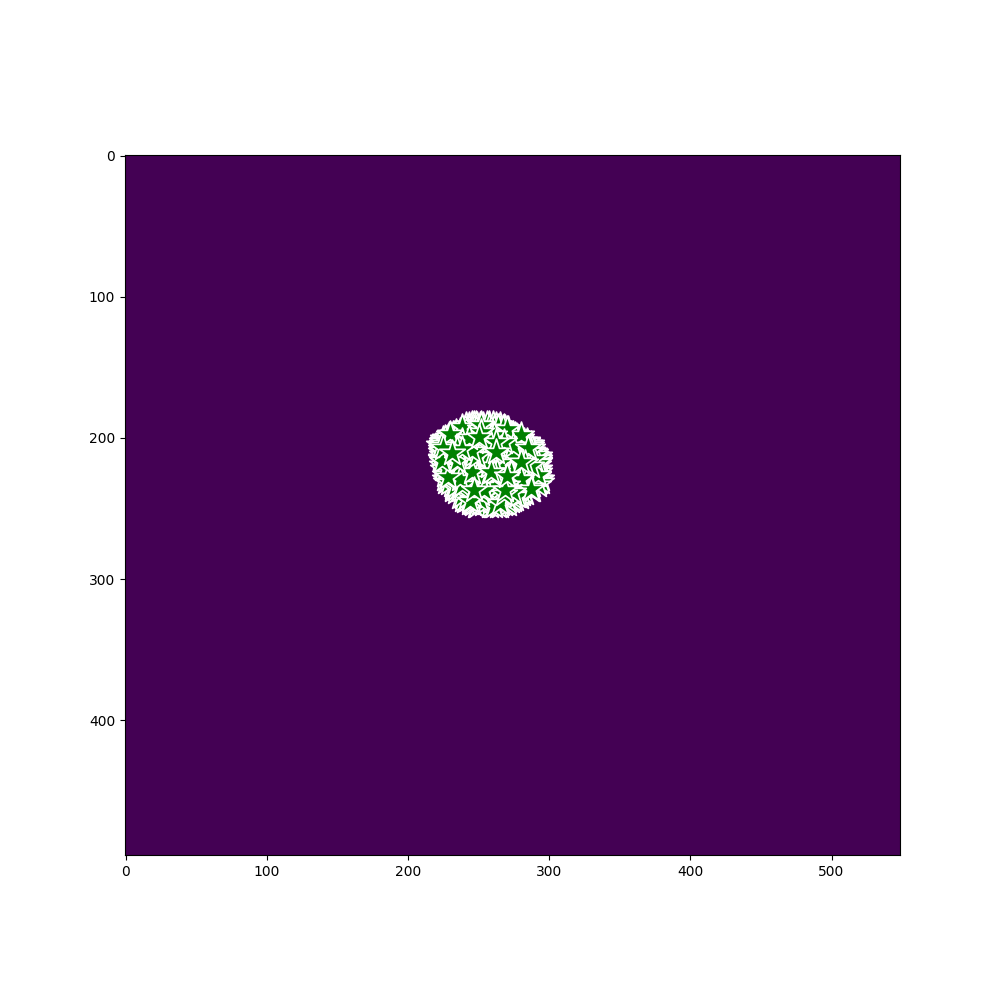
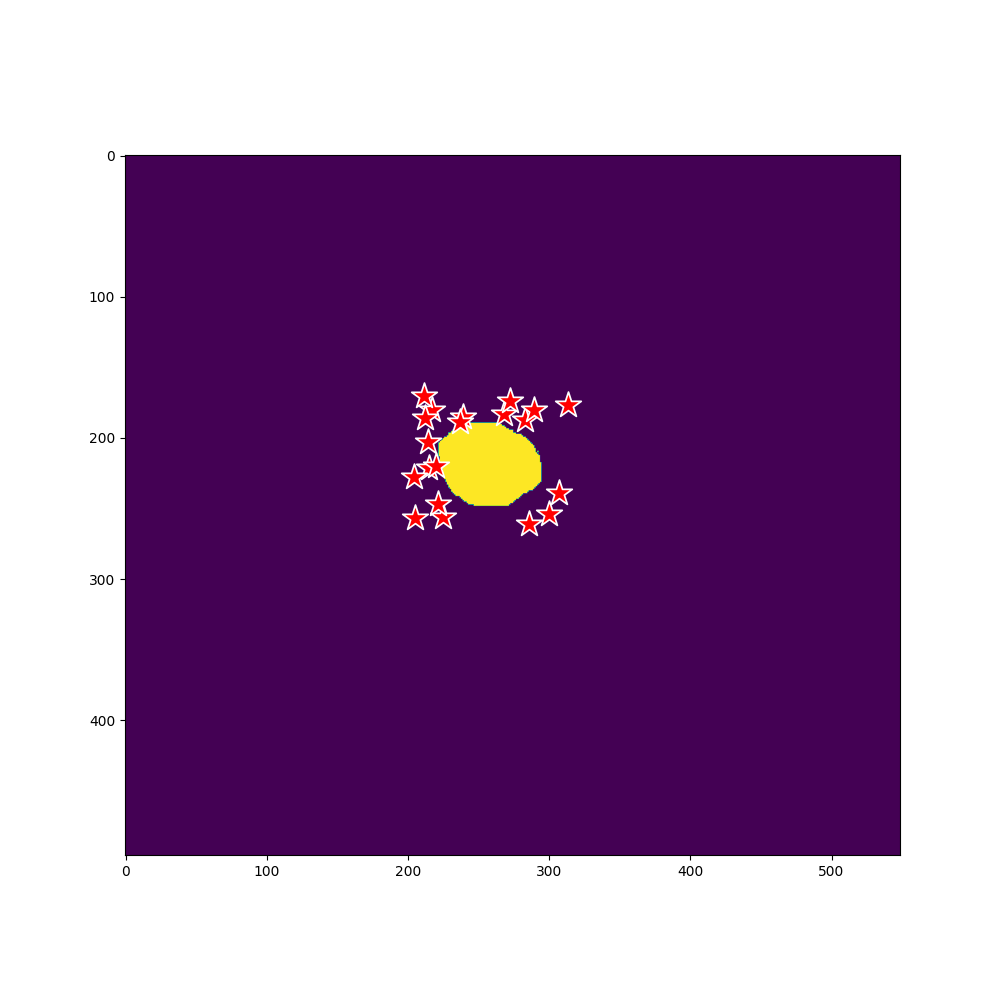
bg_point complete

Changed region(s): [[0.403, 0.372, 0.589, 0.527]]

diff --git a/inference.py b/inference.py
@@ -26,6 +26,7 @@ def segment_data(data, exp_config):
     data_dataloader = DataLoader(dataset, batch_size=1, shuffle=False)
 
     dice_coefs, IoU_scores = [], []
+    low_accuracy_imgs, high_accuracy_imgs = 0, 0
     for i, batch in tqdm(enumerate(data_dataloader)):
 
 
@@ -43,25 +44,34 @@ def segment_data(data, exp_config):
         pred_mask = batched_output[0]['masks'][0].squeeze().numpy()
     
 
-        # randomly pick few images to qualitatively check the model performance
-        # the images are saved in sample_images folder
-        if random.randint(1, 100) == -1:
-            # side_by_side(img_path, label_path, img_num)
-            # print(f'{batch["point_labels"].numpy()[0]=}')
-            input_points = batch["original_coords"].numpy()[0]
-            input_labels = batch["point_labels"].numpy()[0]
-            show_points_on_image(io.imread(img_path), input_points, input_labels=input_labels)
-            # superpose_img_label(img_path, label_path, img_num)
-            superpose_img_mask(img_path, label_path, pred_mask, img_num, exp_config['bbox_size']) # first mask of the first output
-
         dice_coef = compute_dice_coefficient(label, pred_mask)
         IoU_score = IoU(label, pred_mask)
         dice_coefs.append(dice_coef)
         IoU_scores.append(IoU_score)
         # print(f'{dice_coef=}')
+
+        # randomly pick few images to qualitatively check the model performance
+        # the images are saved in sample_images folder
+        # if random.randint(1, 100) == -1:
+        if IoU_score < 0.5:
+            low_accuracy_imgs += 1
+        if IoU_score > 0.9: high_accuracy_imgs += 1
+        # if random.randint(1, 100) == 1:
+        if IoU_score < 0.5:
+            # side_by_side(img_path, label_path, img_num)
+            # print(f'{batch["point_labels"].numpy()[0]=}')
+            input_points = batch["original_coords"].numpy()[0]
+            input_labels = batch["point_labels"].numpy()[0]
+            # show_points_on_image(io.imread(img_path), input_points, input_labels=input_labels)
+            # superpose_img_label(img_path, label_path, img_num)
+            superpose_img_mask(img_path, label_path, pred_mask, img_num, exp_config['bbox_size']) # first mask of the first output
+
+        
         
         # break
 
+    print(f'Number of images with LOW IoU accuracy: {low_accuracy_imgs}')
+    print(f'Number of images with HIGH IoU accuracy: {high_accuracy_imgs}')
 
     avg_dice_coef = sum(dice_coefs) / len(dice_coefs)
     avg_iou_score = sum(IoU_scores) / len(IoU_scores)

diff --git a/datasets.py b/datasets.py
@@ -94,7 +94,13 @@ class NpzDataset(Dataset):
         img_num = self.img_nums[index]
 
         bbox = get_bbox_from_mask(label, self.bbox_size)
-        point_coords, point_labels = get_random_fg(label, self.num_pts)
+        fg_point_coords, fg_point_labels = get_random_fg(label, self.num_pts)
+        bg_point_coords, bg_point_labels = get_random_bg(label, bbox, 1)
+        point_coords = np.concatenate((fg_point_coords, bg_point_coords))
+        point_labels = np.concatenate((fg_point_labels, bg_point_labels))
+        
+        # print(f'{point_coords=}')
+        # print(f'{point_labels=}')
         # point_coords = torch.tensor(org_point_coords)
         # point_labels = torch.tensor(point_labels)
         

diff --git a/experiment_setup.py b/experiment_setup.py
@@ -58,9 +58,9 @@ if __name__ == "__main__":
     raw_label = io.imread(f"dataset/original/benign/labels/benign_5.png", as_gray=True)
     print(f'{raw_label.shape=}')
     # together = raw_image + raw_label
-    bbox = get_bbox_from_mask(raw_label, 200)
+    bbox = get_bbox_from_mask(raw_label, 20)
     # input_points, input_labels = get_random_bg(raw_label, bbox, 1000)
-    input_points, input_labels = get_random_fg(raw_label, 1000)
+    input_points, input_labels = get_random_bg(raw_label, bbox, 20)
     # input_points, input_labels = get_random_pts(raw_label, bbox, 3)
     # fg_count = 0
     # for i in range(1000):
